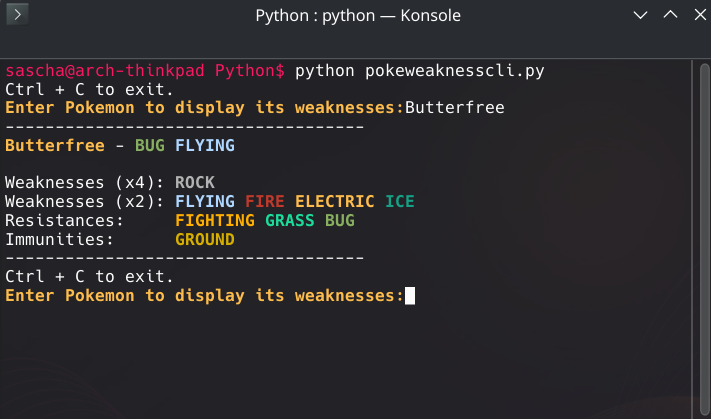
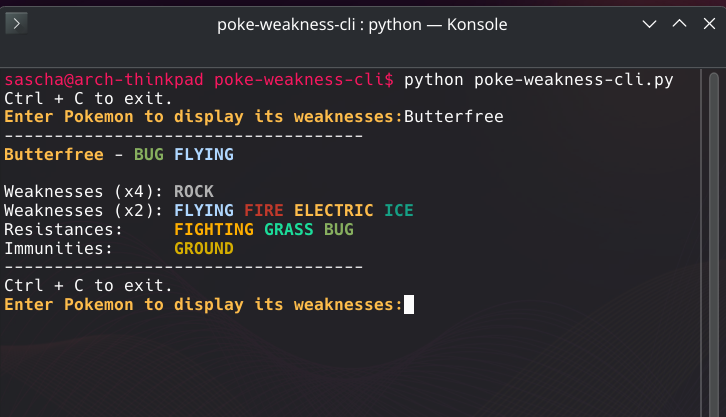
Updated README

diff --git a/README.md b/README.md
@@ -25,6 +25,8 @@ python poke-weakness-cli.py
 
 # TODO
 - [ ] fuzzy matching to allow for typos while searching Pokemon
+- [ ] more accurate color respresentation of the types
+- [ ] support for pokemon forms like: regional forms, arceus, shaymin, ...
 
 # Credits
 - PokeAPI https://pokeapi.co
